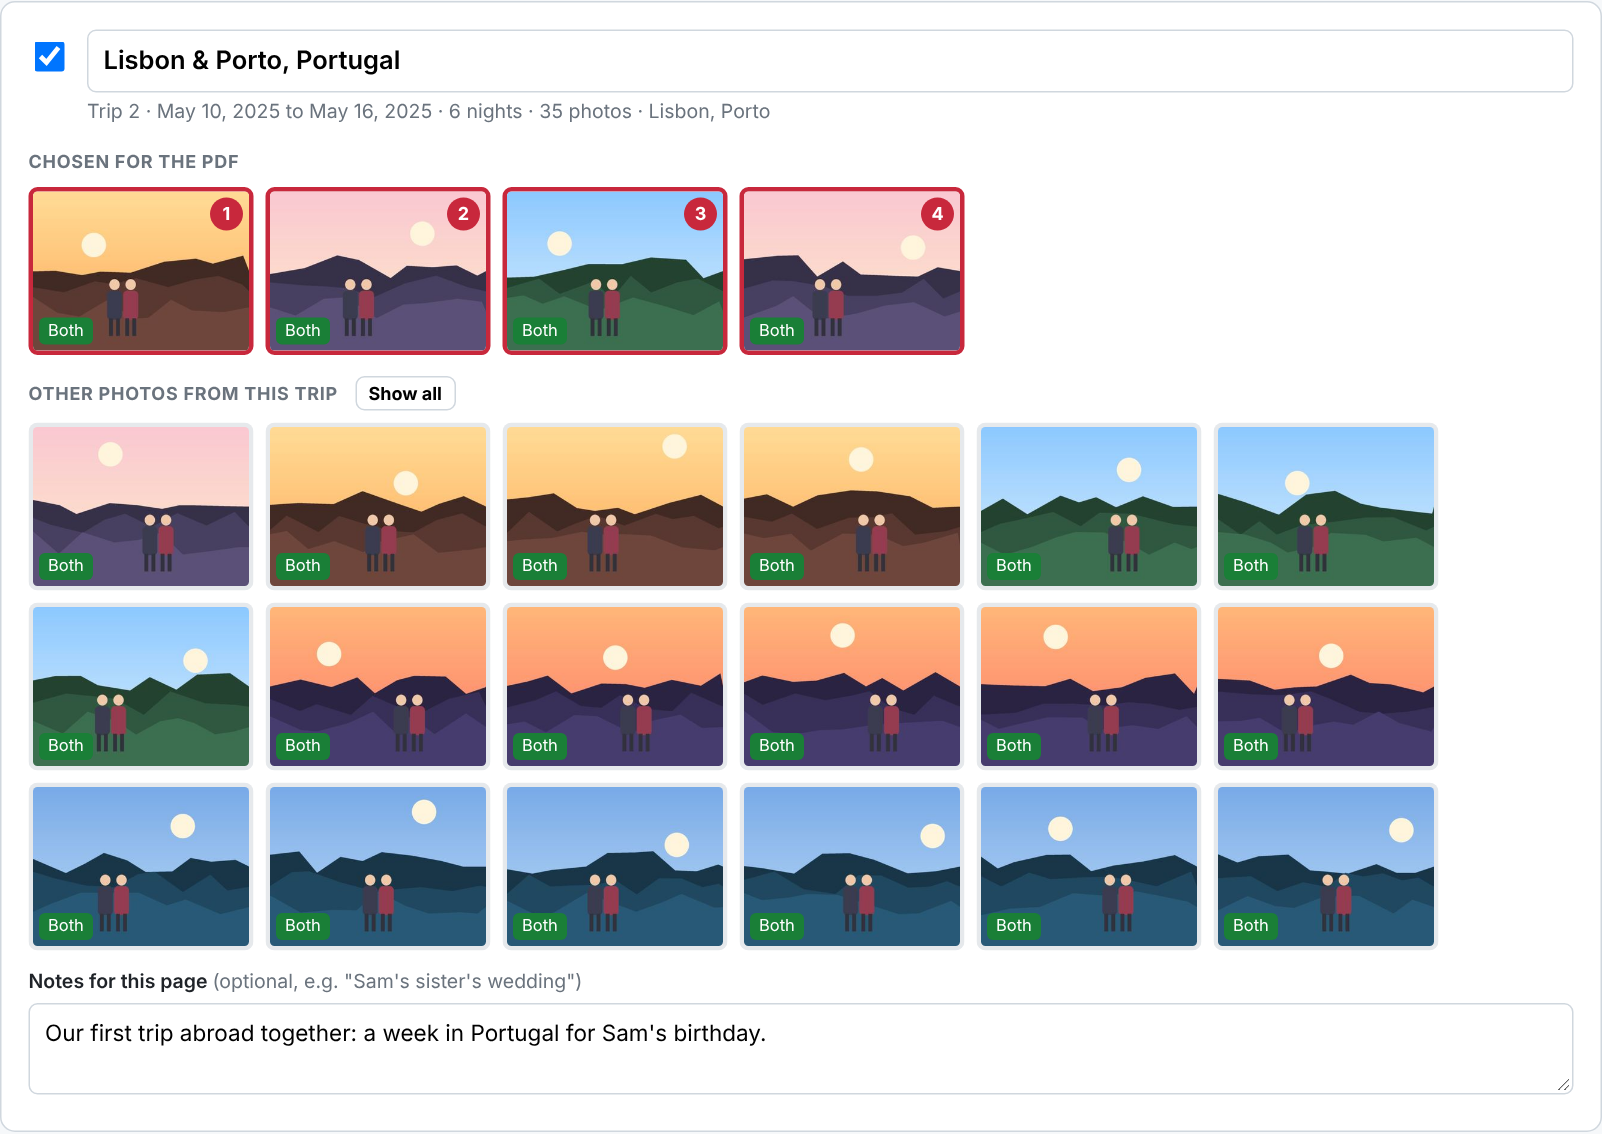
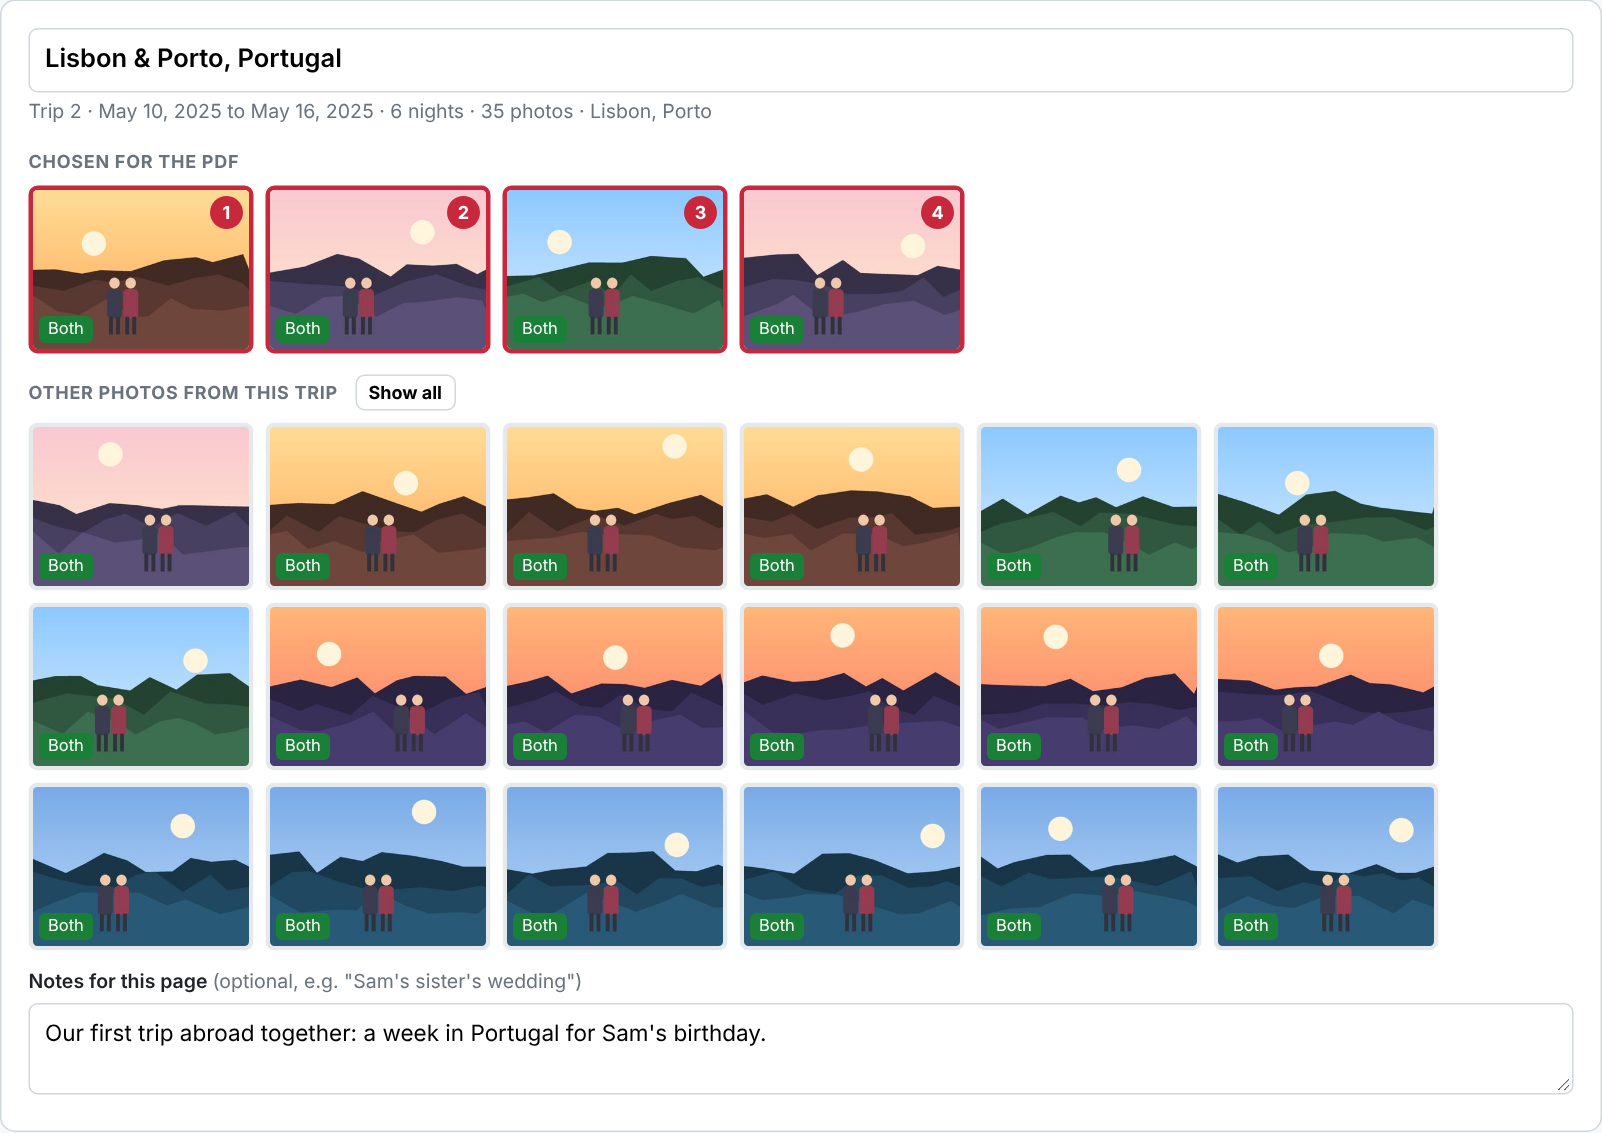
Suggest trips first, then choose photos only for the ticked ones
Find trips now lists every trip found from photo dates and GPS (dates
optional, so a whole folder can be scanned) with tick boxes. Face and
quality analysis runs only for ticked trips, on request.

Claude-Session: https://claude.ai/code/session_017j1bBx4xez1HzxAAKX5EZu

diff --git a/photostory/static/index.html b/photostory/static/index.html
@@ -44,6 +44,12 @@
   .sticky { position: sticky; bottom: 0; background: var(--bg); padding: 12px 0; border-top: 1px solid var(--line); display:flex; gap:12px; align-items:center; flex-wrap:wrap; }
   .hidden { display:none !important; }
   a { color: var(--accent); }
+  .tablewrap { overflow-x: auto; }
+  table { width: 100%; border-collapse: collapse; font-size: 14px; }
+  th { text-align: left; font-size: 12px; color: var(--muted); font-weight: 600; border-bottom: 1px solid var(--line); padding: 6px 8px; }
+  td { padding: 7px 8px; border-bottom: 1px solid #eef1f4; vertical-align: top; }
+  tr.off td { color: var(--muted); }
+  td input[type=checkbox] { width: 18px; height: 18px; }
 </style>
 </head>
 <body>
@@ -60,7 +66,7 @@
     <div class="pathrow"><input type="text" id="people_dir" placeholder="/Users/you/PhotoStory/people"><button data-browse="people_dir">Browse…</button></div>
 
     <div class="row">
-      <div><label>From</label><input type="date" id="date_from"></div>
+      <div><label>From <span class="hint">(leave both dates blank to look through every photo)</span></label><input type="date" id="date_from"></div>
       <div><label>To</label><input type="date" id="date_to"></div>
     </div>
 
@@ -81,14 +87,24 @@
     <p id="scanerr" class="err hidden"></p>
   </section>
 
+  <section id="pick" class="card hidden">
+    <h2>2. Pick your trips</h2>
+    <p class="meta" id="summary"></p>
+    <ul class="notes" id="notes"></ul>
+    <p class="meta">These are the trips found from your photos' dates and locations. Tick the ones you want in the document. You can rename them in the next step.</p>
+    <p><button id="all">Tick all</button> <button id="none">Untick all</button></p>
+    <div class="tablewrap"><table id="triptable"><thead><tr><th></th><th>Trip</th><th>Dates</th><th>Nights</th><th>Places</th><th>Photos</th></tr></thead><tbody></tbody></table></div>
+    <p><button class="primary" id="choose">Choose photos for the ticked trips</button></p>
+    <div id="progress-slot"></div>
+    <p id="chooseerr" class="err hidden"></p>
+  </section>
+
   <section id="review" class="hidden">
     <div class="card">
-      <h2>2. Check the trips</h2>
-      <p class="meta" id="summary"></p>
-      <ul class="notes" id="notes"></ul>
+      <h2>3. Check the photos</h2>
       <label>Document title</label>
       <input type="text" id="doc_title" placeholder="Travelling together: Alex & Sam">
-      <p class="meta">Untick a trip to leave it out. Click a photo below a trip to add it, or click a chosen photo to remove it. Green tags mark photos where both of you were recognised.</p>
+      <p class="meta">Click a photo below a trip to add it, or click a chosen photo to remove it. Green tags mark photos where both of you were recognised.</p>
     </div>
     <div id="trips"></div>
     <div class="sticky">
@@ -118,8 +134,8 @@ const esc = (s) => String(s ?? "").replace(/[&<>"]/g, c => ({"&": "&amp;", "<": 
 async function init() {
   const st = await api("/api/state");
   for (const f of FIELDS) $(f).value = st.settings[f] ?? "";
-  if (st.job.running) poll();
   if (st.project) showProject(st.project);
+  if (st.job.running) poll();
 }
 
 document.querySelectorAll("[data-browse]").forEach(b => b.onclick = async () => {
@@ -136,34 +152,70 @@ $("scan").onclick = async () => {
   const s = {};
   for (const f of FIELDS) s[f] = $(f).value;
   $("scanerr").classList.add("hidden");
-  try { await api("/api/scan", s); poll(); }
+  try { $("setup").appendChild($("progress")); await api("/api/scan", s); poll(); }
   catch (e) { $("scanerr").textContent = e.message; $("scanerr").classList.remove("hidden"); }
 };
 
 async function poll() {
-  $("scan").disabled = true;
+  $("scan").disabled = $("choose").disabled = true;
   $("progress").classList.remove("hidden");
   const job = await api("/api/job");
   $("progress").querySelector(".bar div").style.width = job.pct + "%";
   $("msg").textContent = job.msg;
   if (job.running) return setTimeout(poll, 700);
-  $("scan").disabled = false;
+  $("scan").disabled = $("choose").disabled = false;
   if (job.error) { $("scanerr").textContent = "Something went wrong: " + job.error; $("scanerr").classList.remove("hidden"); return; }
+  $("progress").classList.add("hidden");
   const st = await api("/api/state");
   if (st.project) showProject(st.project);
 }
 
+const places = (t) => [...new Set([...t.stops].sort((a, b) => a.first.localeCompare(b.first))
+  .map(s => s.place && (s.place.city || s.place.country)).filter(Boolean))];
+const nightsText = (n) => n === 0 ? "day trip" : n + (n === 1 ? " night" : " nights");
+
 function showProject(p) {
   project = p;
-  $("review").classList.remove("hidden");
+  $("pick").classList.remove("hidden");
   $("doc_title").value = p.title || "";
   const nights = p.trips.reduce((a, t) => a + t.nights, 0);
-  $("summary").textContent = `${p.photo_total} photos in the date range. Found ${p.trips.length} trips, ${nights} nights away.` +
-    (p.people && p.people.length ? ` Looking for: ${p.people.join(" and ")}.` : " No reference photos were given, so photos were chosen by quality and spread over each trip.");
+  $("summary").textContent = `${p.photo_total} photos looked at. Found ${p.trips.length} trips, ${nights} nights away.` +
+    (p.people && p.people.length ? ` Looking for: ${p.people.join(" and ")}.` : "");
   $("notes").innerHTML = (p.notes || []).map(n => `<li>${esc(n)}</li>`).join("");
-  $("trips").innerHTML = "";
-  p.trips.forEach((t, i) => $("trips").appendChild(tripCard(t, i)));
+  const body = $("triptable").querySelector("tbody");
+  body.innerHTML = "";
+  p.trips.forEach((t, i) => {
+    const tr = document.createElement("tr");
+    tr.className = t.include ? "" : "off";
+    tr.innerHTML = `<td><input type="checkbox" ${t.include ? "checked" : ""}></td><td>${esc(t.title)}</td>
+      <td>${fmt(t.start)} to ${fmt(t.end)}</td><td>${t.nights}</td><td>${esc(places(t).join(", "))}</td><td>${t.photo_count}</td>`;
+    const box = tr.querySelector("input");
+    box.onchange = () => { t.include = box.checked; tr.className = t.include ? "" : "off"; save(); renderCards(); };
+    body.appendChild(tr);
+  });
+  renderCards();
 }
+
+function setAll(on) { project.trips.forEach(t => t.include = on); save(); showProject(project); }
+$("all").onclick = () => setAll(true);
+$("none").onclick = () => setAll(false);
+
+function renderCards() {
+  const ready = project.trips.filter(t => t.include && t.analysed);
+  const waiting = project.trips.filter(t => t.include && !t.analysed).length;
+  $("choose").textContent = waiting ? `Choose photos for ${waiting} ticked trip${waiting === 1 ? "" : "s"}` : "Photos chosen for all ticked trips";
+  $("choose").classList.toggle("primary", waiting > 0);
+  $("review").classList.toggle("hidden", !ready.length);
+  $("trips").innerHTML = "";
+  project.trips.forEach((t, i) => { if (t.include && t.analysed) $("trips").appendChild(tripCard(t, i)); });
+}
+
+$("choose").onclick = async () => {
+  clearTimeout(saveTimer);
+  $("chooseerr").classList.add("hidden");
+  try { $("progress-slot").appendChild($("progress")); await api("/api/choose", edits()); poll(); }
+  catch (e) { $("chooseerr").textContent = e.message; $("chooseerr").classList.remove("hidden"); }
+};
 
 function tag(ph) {
   if (!project.people || !project.people.length || !ph.people) return "";
@@ -174,15 +226,13 @@ function tag(ph) {
 
 function tripCard(t, i) {
   const el = document.createElement("section");
-  el.className = "card trip" + (t.include ? "" : " off");
-  const stops = [...t.stops].sort((a, b) => a.first.localeCompare(b.first))
-    .map(s => s.place && (s.place.city || s.place.country)).filter(Boolean);
+  el.className = "card trip";
+  const stops = places(t);
   el.innerHTML = `
     <div class="trip-head">
-      <input type="checkbox" ${t.include ? "checked" : ""} title="Include this trip">
       <div style="flex:1">
         <input type="text" class="title" value="${esc(t.title)}">
-        <p class="meta">Trip ${i + 1} · ${fmt(t.start)} to ${fmt(t.end)} · ${t.nights === 0 ? "day trip" : t.nights + (t.nights === 1 ? " night" : " nights")} · ${t.photo_count} photos${stops.length ? " · " + esc([...new Set(stops)].join(", ")) : ""}</p>
+        <p class="meta">Trip ${i + 1} · ${fmt(t.start)} to ${fmt(t.end)} · ${nightsText(t.nights)} · ${t.photo_count} photos${stops.length ? " · " + esc(stops.join(", ")) : ""}</p>
       </div>
     </div>
     <div class="section-label">Chosen for the PDF</div>
@@ -191,9 +241,10 @@ function tripCard(t, i) {
     <div class="strip cands"></div>
     <label>Notes for this page <span class="hint">(optional, e.g. "Sam's sister's wedding")</span></label>
     <textarea class="notes-in">${esc(t.notes || "")}</textarea>`;
-  const box = el.querySelector("input[type=checkbox]");
-  box.onchange = () => { t.include = box.checked; el.classList.toggle("off", !t.include); save(); };
-  el.querySelector(".title").oninput = (e) => { t.title = e.target.value; save(); };
+  el.querySelector(".title").oninput = (e) => {
+    t.title = e.target.value; save();
+    $("triptable").querySelectorAll("tbody tr")[i].children[1].textContent = t.title;
+  };
   el.querySelector(".notes-in").oninput = (e) => { t.notes = e.target.value; save(); };
   let showAll = false;
   el.querySelector(".more").onclick = (e) => { showAll = !showAll; e.target.textContent = showAll ? "Show fewer" : "Show all"; render(); };
@@ -229,7 +280,9 @@ function tripCard(t, i) {
 }
 
 function edits() {
-  return {title: $("doc_title").value, trips: project.trips.map(t => ({id: t.id, title: t.title, notes: t.notes, include: t.include, selected: t.selected}))};
+  return {title: $("doc_title").value, trips: project.trips.map(t => ({id: t.id, title: t.title, notes: t.notes, include: t.include,
+    // Until photos are chosen for a trip, its selection belongs to the server.
+    selected: t.analysed ? t.selected : undefined}))};
 }
 
 function save() {

diff --git a/photostory/pipeline.py b/photostory/pipeline.py
@@ -1,10 +1,15 @@
 """Turn a folder of photos into a project file of trips with suggested photos."""
 import os
+import threading
 from datetime import date
 
 from . import geo, select, trips
 from .scan import scan_folder
 from .util import load_json, save_json
+
+
+# Held while reading-changing-writing the project file, since photo picking and the user's edits overlap.
+LOCK = threading.RLock()
 
 
 def project_path(out_dir):
@@ -56,25 +61,11 @@ def run(settings, out_dir, progress=lambda pct, msg: None):
     for t in found:
         trips.name_places(t)
 
-    matcher = None
-    people = []
-    if settings.get("people_dir"):
-        progress(48, "Learning faces from your reference photos")
-        from .faces import FaceMatcher
-
-        matcher = FaceMatcher(settings["people_dir"])
-        people = sorted(matcher.people)
-        notes.extend(matcher.reference_problems)
-
-    for i, t in enumerate(found):
-        def trip_progress(done, total, i=i):
-            pct = 50 + 48 * (i + done / max(total, 1)) / max(len(found), 1)
-            progress(int(pct), f"Choosing photos for trip {i + 1} of {len(found)}: {t['title']}")
-
-        select.analyse_trip(t, matcher, os.path.join(cache_dir, "faces.json"), trip_progress)
-        select.pick(t, int(settings.get("photos_per_trip", 4)))
+    for t in found:
         t["include"] = True
         t["notes"] = ""
+        t["selected"] = []
+        t["analysed"] = False
 
     # Keep edits from an earlier run of the same trips (same start time), so re-scanning is safe.
     old = load_project(out_dir)
@@ -91,7 +82,7 @@ def run(settings, out_dir, progress=lambda pct, msg: None):
         "version": 1,
         "settings": settings,
         "title": settings.get("title") or "",
-        "people": settings.get("names") or people,
+        "people": [],
         "homes": homes,
         "notes": notes,
         "photo_total": len(photos),
@@ -100,3 +91,42 @@ def run(settings, out_dir, progress=lambda pct, msg: None):
     save_project(out_dir, project)
     progress(100, "Done")
     return project
+
+
+def choose_photos(out_dir, progress=lambda pct, msg: None):
+    """Score photos and pick a few for every ticked trip that hasn't been done yet."""
+    project = load_project(out_dir)
+    settings = project["settings"]
+    cache_dir = os.path.join(out_dir, "cache")
+    todo = [t for t in project["trips"] if t.get("include", True) and not t.get("analysed")]
+
+    matcher = None
+    if settings.get("people_dir") and todo:
+        progress(2, "Learning faces from your reference photos")
+        from .faces import FaceMatcher
+
+        matcher = FaceMatcher(settings["people_dir"])
+        project["people"] = sorted(matcher.people)
+        project["notes"] = [n for n in project.get("notes", []) if not n.startswith("No ")] + matcher.reference_problems
+
+    for i, t in enumerate(todo):
+        def trip_progress(done, total, i=i, t=t):
+            pct = 5 + 93 * (i + done / max(total, 1)) / len(todo)
+            progress(int(pct), f"Choosing photos for trip {i + 1} of {len(todo)}: {t['title']}")
+
+        select.analyse_trip(t, matcher, os.path.join(cache_dir, "faces.json"), trip_progress)
+        if not t.get("selected"):
+            select.pick(t, int(settings.get("photos_per_trip", 4)))
+        t["analysed"] = True
+        # Save as we go: the user may be editing other trips at the same time.
+        with LOCK:
+            latest = load_project(out_dir) or project
+            for lt in latest["trips"]:
+                if lt["id"] == t["id"]:
+                    lt["photos"], lt["analysed"] = t["photos"], True
+                    if not lt.get("selected"):
+                        lt["selected"] = t["selected"]
+            latest["people"], latest["notes"] = project["people"], project.get("notes", [])
+            save_project(out_dir, latest)
+    progress(100, "Done")
+    return load_project(out_dir)

diff --git a/photostory/app.py b/photostory/app.py
@@ -37,16 +37,15 @@ class App:
     def project(self):
         return pipeline.load_project(self.out_dir)
 
-    def start_scan(self, settings):
+    def start_job(self, fn):
         with self.lock:
             if self.job["running"]:
                 return False
             self.job = {"running": True, "pct": 0, "msg": "Starting", "error": ""}
-        save_json(self.settings_path, settings)
 
         def work():
             try:
-                pipeline.run(settings, self.out_dir, self._progress)
+                fn()
             except Exception as e:
                 traceback.print_exc()
                 self.job["error"] = f"{type(e).__name__}: {e}"
@@ -56,10 +55,21 @@ class App:
         threading.Thread(target=work, daemon=True).start()
         return True
 
+    def start_scan(self, settings):
+        save_json(self.settings_path, settings)
+        return self.start_job(lambda: pipeline.run(settings, self.out_dir, self._progress))
+
+    def start_choose(self):
+        return self.start_job(lambda: pipeline.choose_photos(self.out_dir, self._progress))
+
     def _progress(self, pct, msg):
         self.job["pct"], self.job["msg"] = pct, msg
 
     def save_edits(self, edits):
+        with pipeline.LOCK:
+            return self._save_edits(edits)
+
+    def _save_edits(self, edits):
         proj = self.project()
         if not proj:
             return None
@@ -181,6 +191,10 @@ def make_handler(app):
                     if s["people_dir"] and not os.path.isdir(s["people_dir"]):
                         return self.send(400, {"error": "That reference photo folder doesn't exist."})
                     ok = app.start_scan(s)
+                    return self.send(200 if ok else 409, app.job)
+                if u.path == "/api/choose":
+                    app.save_edits(data)
+                    ok = app.start_choose()
                     return self.send(200 if ok else 409, app.job)
                 if u.path == "/api/project":
                     return self.send(200, app.save_edits(data) or {})

diff --git a/photostory/__main__.py b/photostory/__main__.py
@@ -42,7 +42,8 @@ def main():
                 print(f"[{pct:3d}%] {msg}")
                 last[0] = msg
 
-        proj = pipeline.run(settings, args.out, show)
+        pipeline.run(settings, args.out, show)
+        proj = pipeline.choose_photos(args.out, show)
         for n in proj["notes"]:
             print("Note:", n)
         for i, t in enumerate(proj["trips"], 1):

diff --git a/README.md b/README.md
@@ -19,6 +19,10 @@ These screenshots use made-up demo photos and names. In the real app the maps ar
 
 <img src="docs/screenshots/app-setup.png" width="800" alt="The setup screen: photo folder, reference photos, dates and home town">
 
+**Tick the trips you want from the ones it found**
+
+<img src="docs/screenshots/app-pick.png" width="800" alt="The list of trips found, with tick boxes, dates, nights and places">
+
 **Check each trip and swap photos** (green tags mark photos where both of you were recognised)
 
 <img src="docs/screenshots/app-review.png" width="800" alt="Reviewing a trip: the chosen photos and other photos to pick from">
@@ -46,13 +50,16 @@ These screenshots use made-up demo photos and names. In the real app the maps ar
    Use clear photos from different years and angles. The subfolder names are used as your names.
    With these, PhotoStory picks photos where both of you are recognised. Without them, it picks sharp
    photos spread across each trip and you choose.
-3. **From / To**: the date range to cover.
+3. **From / To**: the date range to cover. Leave both blank to look through every photo.
 4. **Home**: your town, e.g. `Bristol, UK`. Anything more than 50 km from home counts as a trip.
    Add a line for each place if you've lived in more than one.
 5. Click **Find trips**. The first scan of a big folder can take a while; later scans are fast.
-6. Check each trip: rename it, untick trips to leave out, click photos to add or remove them, and add
-   a note if it helps (e.g. "Sam's sister's wedding").
-7. Click **Make PDF**. PDFs are saved in the `PhotoStory` folder in your home folder.
+   You get a list of the trips it found, with dates, nights and places.
+6. Tick the trips you want, then click **Choose photos for the ticked trips**. Photos are only
+   analysed for the trips you tick, so this stays quick even if you scanned years of photos.
+7. Check each trip: rename it, click photos to add or remove them, and add a note if it helps
+   (e.g. "Sam's sister's wedding"). You can tick more trips later and choose photos for those too.
+8. Click **Make PDF**. PDFs are saved in the `PhotoStory` folder in your home folder.
 
 Your edits are kept if you run **Find trips** again with a wider date range.
 
